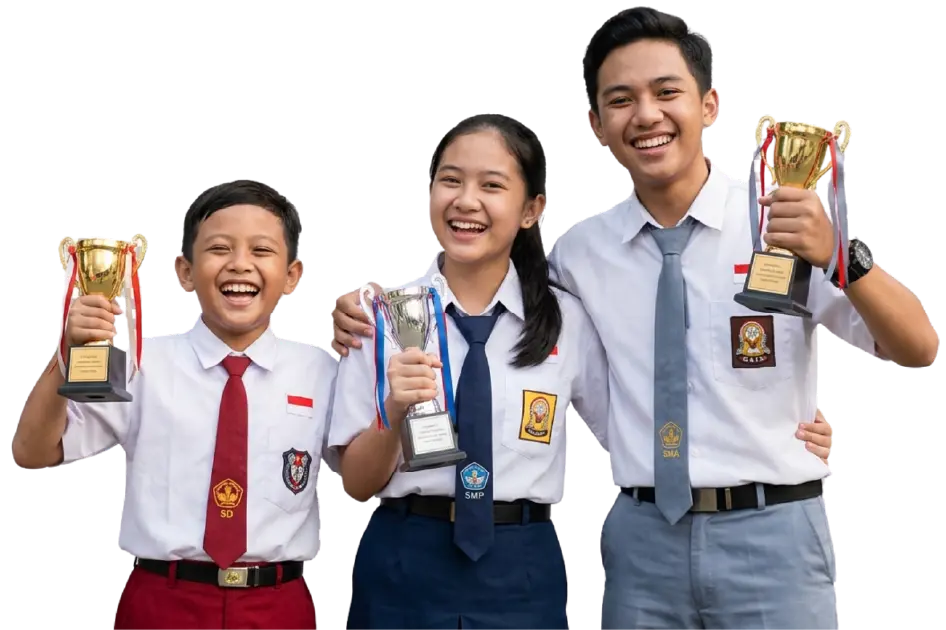
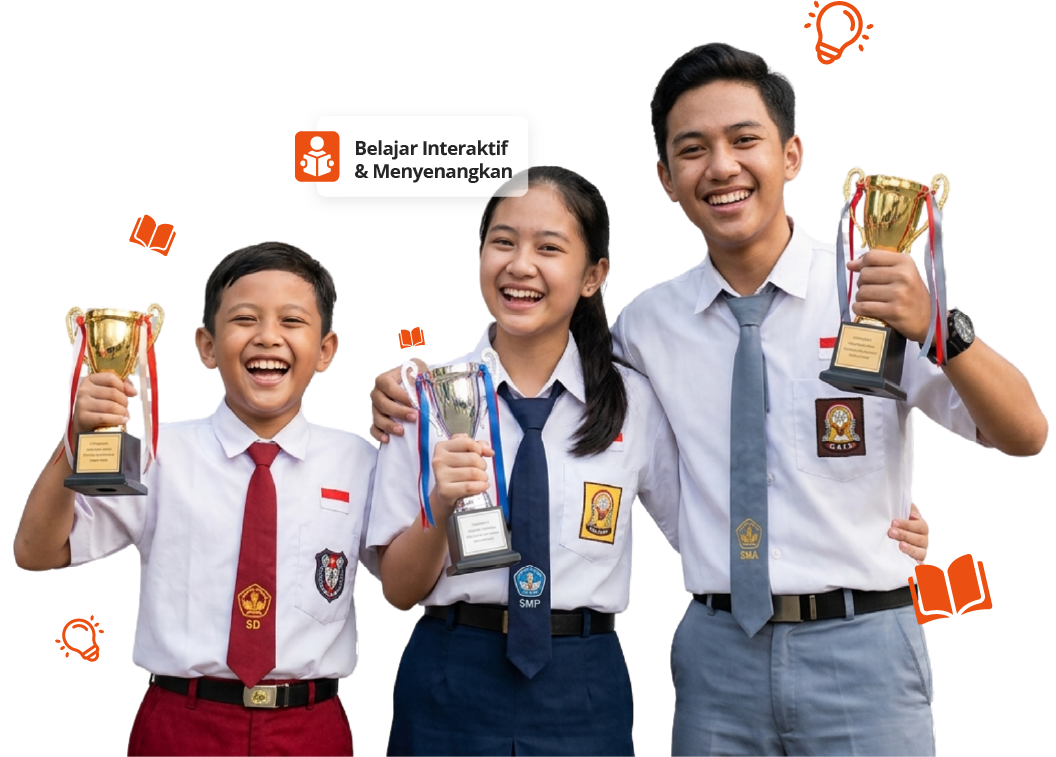
feat: integrate new hero image asset and use it on homepage for all viewports

diff --git a/front-page.php b/front-page.php
@@ -58,17 +58,12 @@ get_header();
 			
 			<!-- Right Column: Hero Image -->
 			<div class="lg:col-span-5 relative h-auto sm:h-[460px] lg:h-[460px] flex items-end justify-center lg:justify-end">
-				<!-- Large Hero Image (Students) — Responsive Picture Tag -->
-				<picture class="relative z-10 w-full h-auto max-w-[420px] sm:max-w-[500px] lg:max-w-none lg:w-[620px] xl:w-[700px] lg:absolute lg:bottom-0 lg:right-[-40px] transform sm:translate-y-12 lg:translate-y-32 block select-none pointer-events-none">
-					<!-- Mobile optimized image (< 768px) -->
-					<source media="(max-width: 767px)" srcset="<?php echo esc_url( get_template_directory_uri() . '/assets/images/hero%20image-mobile.webp' ); ?>">
-					<!-- Desktop/Fallback image -->
-					<img 
-						src="<?php echo esc_url( get_template_directory_uri() . '/assets/images/hero%20image.webp' ); ?>" 
-						alt="Siswa Berprestasi LKP Airlangga" 
-						class="w-full h-auto"
-					/>
-				</picture>
+				<!-- Large Hero Image (Students) -->
+				<img 
+					src="<?php echo esc_url( get_template_directory_uri() . '/assets/images/hero%20image.webp' ); ?>" 
+					alt="Siswa Berprestasi LKP Airlangga" 
+					class="relative z-10 w-full h-auto max-w-[420px] sm:max-w-[500px] lg:max-w-none lg:w-[620px] xl:w-[700px] lg:absolute lg:bottom-0 lg:right-[-40px] transform sm:translate-y-12 lg:translate-y-32 block select-none pointer-events-none"
+				/>
 			</div>
 			
 		</div>
